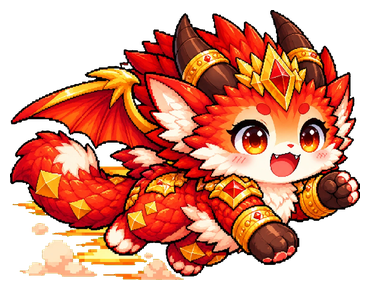
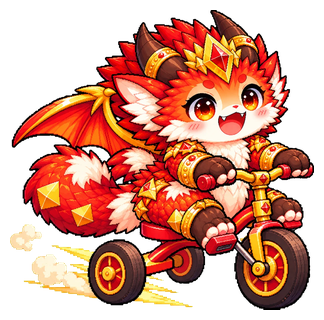
MawKorn: 02 On my way = tricycle v3 (rear wheel fixed)
Claude-Session: https://claude.ai/code/session_01CqN5TM8CtnKZx6KMXb1z93

diff --git a/mangkorn/PLAN.md b/mangkorn/PLAN.md
@@ -20,7 +20,7 @@ New chat? Read this whole file first, then continue from **Status**.
 - Sheet 3 v1 copied Sheet 2's poses (rejected). v2 (new ChatGPT chat, only Sheet 1 attached) has all 9 poses → `mangkorn/references/sheet3-poses-final.png`. Notes for sticker prompts: Sign is a round sign on a stick held in one paw; Love holds a heart instead of making one with paws; Tired looks asleep (Zzz); Hug doll is a cream cat plush with a mouth (use `mx-hug-doll.png` for the real sticker); sheet has a white die-cut border, the stickers must NOT.
 - Sticker prompts: `mangkorn/prompts/NN-name.md` (shared rules in `_common.md`); one attach image for all stickers: `references/attach-stickers.png`.
 - 01 Hello: v1 had "Hello!" text + white border (removed in code: `tools/make_sticker.py ... --drop 0,0,940,430`) → `mangkorn/stickers/01-hello.png` (370×310). **Approved.**
-- 02 On my way!: user chose the **tricycle** version (v2) over flying (v1). Fix needed: foot is a dark brown paw (should be pink-padded), far rear wheel floats in the middle. Fix prompt: `mangkorn/prompts/02-on-my-way-fix.md`. `stickers/02-on-my-way.png` is still v1 until the fixed tricycle is approved.
+- 02 On my way!: **tricycle** version chosen. v3 (fix prompt `prompts/02-on-my-way-fix.md`) fixed the floating rear wheel. Feet stay dark brown on top: that matches `dragon-hungry.png` (brown feet, cream soles with pink pads), so the earlier foot note was wrong. → `mangkorn/stickers/02-on-my-way.png` (324×320). Flying v1 kept as `incoming/02-on-my-way-v1-flying-clean.png`. Waiting for approval.
 
 ## Rules from the user (follow every time)
 
